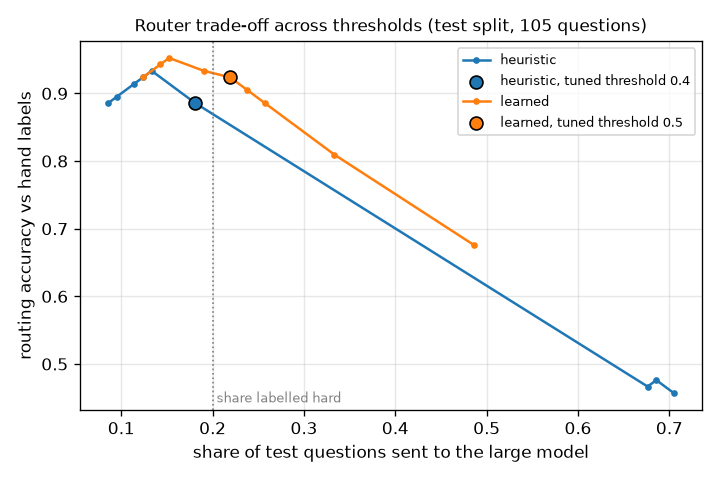
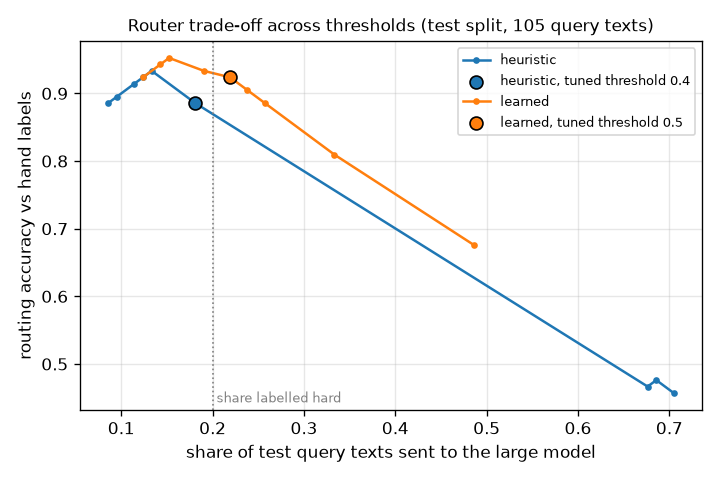
Say 105 query texts, not questions, for the router and retrieval numbers

Changed region(s): [[0.2444, 0.9062, 0.825, 0.9688], [0.1833, 0.0312, 0.9167, 0.0938]]

diff --git a/scripts/make_charts.py b/scripts/make_charts.py
@@ -60,9 +60,9 @@ def router_chart(data: dict, out: Path) -> None:
         hard = chosen["hard"] / chosen["queries"]
     ax.axvline(hard, color="grey", ls=":", lw=1)
     ax.text(hard, 0.02, " share labelled hard", color="grey", fontsize=8, transform=ax.get_xaxis_transform())
-    ax.set_xlabel("share of test questions sent to the large model")
+    ax.set_xlabel("share of test query texts sent to the large model")
     ax.set_ylabel("routing accuracy vs hand labels")
-    ax.set_title("Router trade-off across thresholds (test split, 105 questions)", fontsize=10)
+    ax.set_title("Router trade-off across thresholds (test split, 105 query texts)", fontsize=10)
     ax.grid(alpha=0.3)
     ax.legend(fontsize=8)
     fig.tight_layout()

diff --git a/PROGRESS.md b/PROGRESS.md
@@ -179,10 +179,10 @@ Anything in [brackets] needs the paid Phase 6 run and must not be used until it 
   served 17/175 repeats with 5/350 wrong hits (1.4%) at the tune-chosen threshold; with a
   perfect strong verifier in the band, up to 134/175 repeats (offline upper bound).
 - Trained a logistic-regression router on 7 query and retrieval features from 75 labelled
-  rows: 92.4% routing accuracy (97/105) on held-out questions, sending 18 of 21 hard questions
+  rows: 92.4% routing accuracy (97/105) on held-out query texts, sending 18 of 21 hard texts
   to the large model while sending only 23/105 there in total.
 - Hybrid retrieval with reciprocal rank fusion: recall@4 of 98.1% (103/105) vs 97.1% dense and
-  93.3% BM25 on held-out questions.
+  93.3% BM25 on 105 held-out query texts.
 - Engineered for honest evaluation: tune/test split for every threshold and weight, hard
   budget cap checked before every paid call, mock runs labelled not real, Prometheus /metrics,
   Docker, and CI running 182 offline tests on every push.

diff --git a/README.md b/README.md
@@ -74,7 +74,7 @@ The upper-bound rows assume a strong verifier that is never wrong; they bound wh
 verifier can reach. The last row was added after the 5 wrong test hits were seen and is reported
 only; the tuned config does not use it.
 
-**Router, test split, 105 questions (21 hand-labelled hard, 84 easy):**
+**Router, test split, 105 query texts (35 questions x 3 phrasings; 21 texts hand-labelled hard, 84 easy):**
 
 | Router (threshold from tune) | Accuracy | Hard sent to large | Easy kept on small | Sent to large |
 |---|---|---|---|---|
